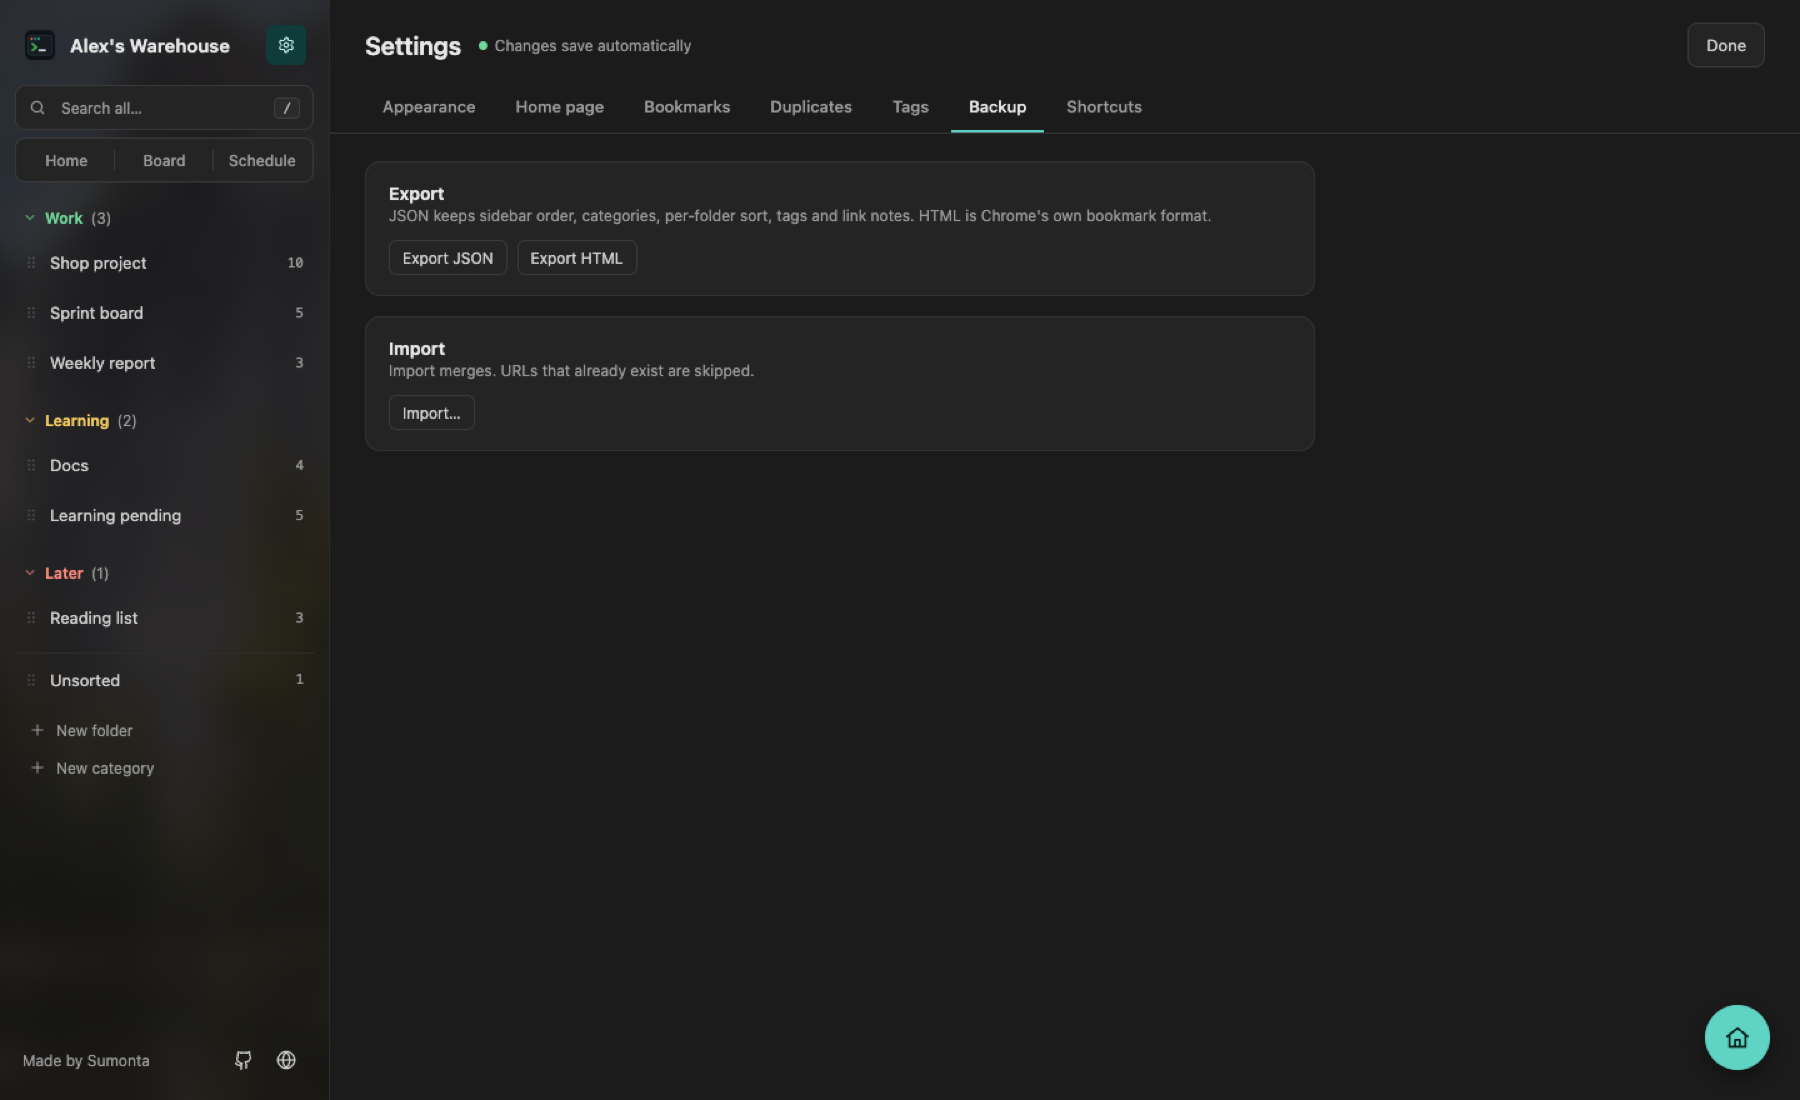
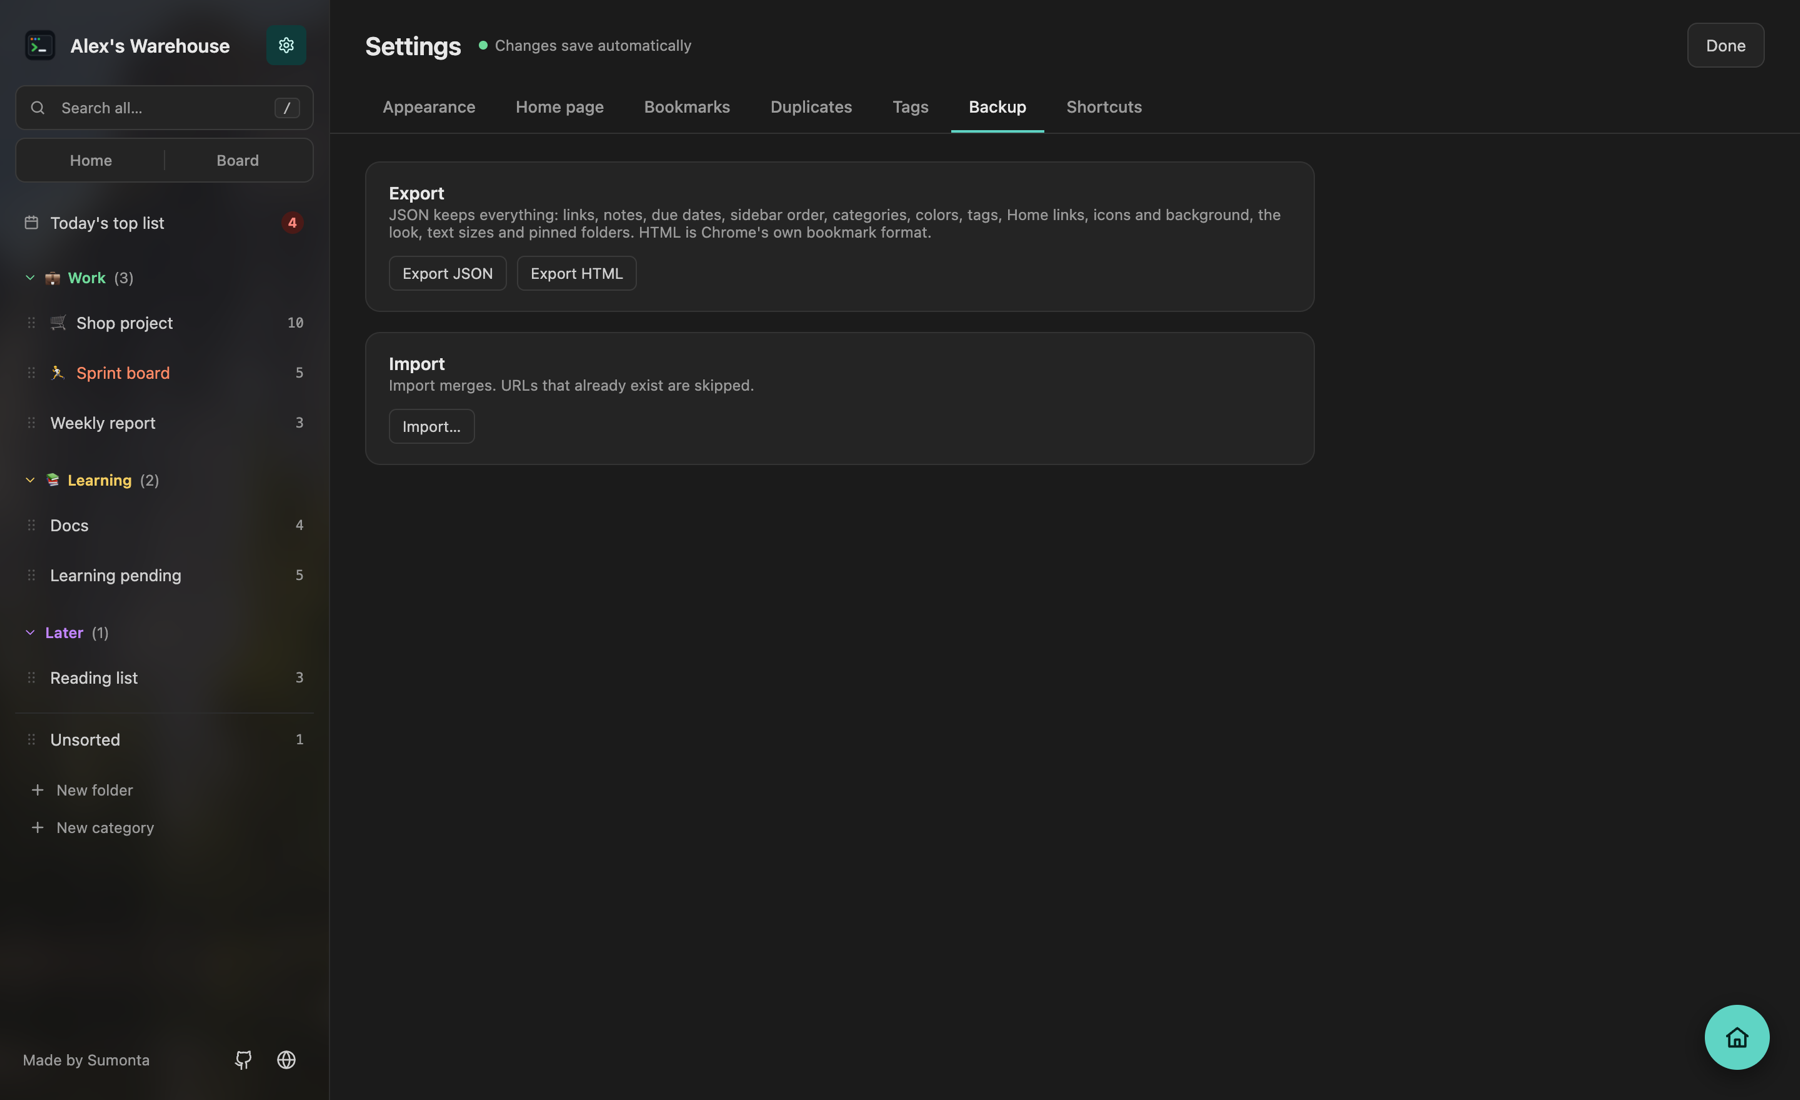
docs(site): new popup and backup screenshots for 2.6.0

diff --git a/site/index.html b/site/index.html
@@ -457,9 +457,9 @@
           <figure class="frame narrow">
             <img
               src="screenshots/popup.png"
-              alt="The save popup with the page title, a TEST badge, links to the same page on PROD, STAGE, LOCAL and QA, High priority picked, a short note, a folder list and a Save button"
+              alt="The save popup with the page title, a TEST badge, links to the same page on PROD, STAGE, LOCAL and QA, the priority, note and due buttons, pinned and recent folder chips, the folder list and a Save to Checkout button"
               loading="lazy"
-              width="840"
+              width="760"
               height="1200"
               data-zoom
             />

diff --git a/README.md b/README.md
@@ -158,7 +158,7 @@ Developers keep the same page open in many versions: live, test, staging and `lo
 - **Open this page in**: opens the same page in your other versions (from _Same site in each version_).
 - Add a priority, a short note (press the note icon) and a due date before you save.
 
-<img src="site/screenshots/popup.png" alt="The save popup with a TEST badge, links to the same page in the other versions, a priority picker, a note box and the folder list" width="360">
+<img src="site/screenshots/popup.png" alt="The save popup with a TEST badge, links to the same page in the other versions, the priority, note and due buttons, pinned and recent folder chips and the folder list" width="360">
 
 ### Settings and backup
 
